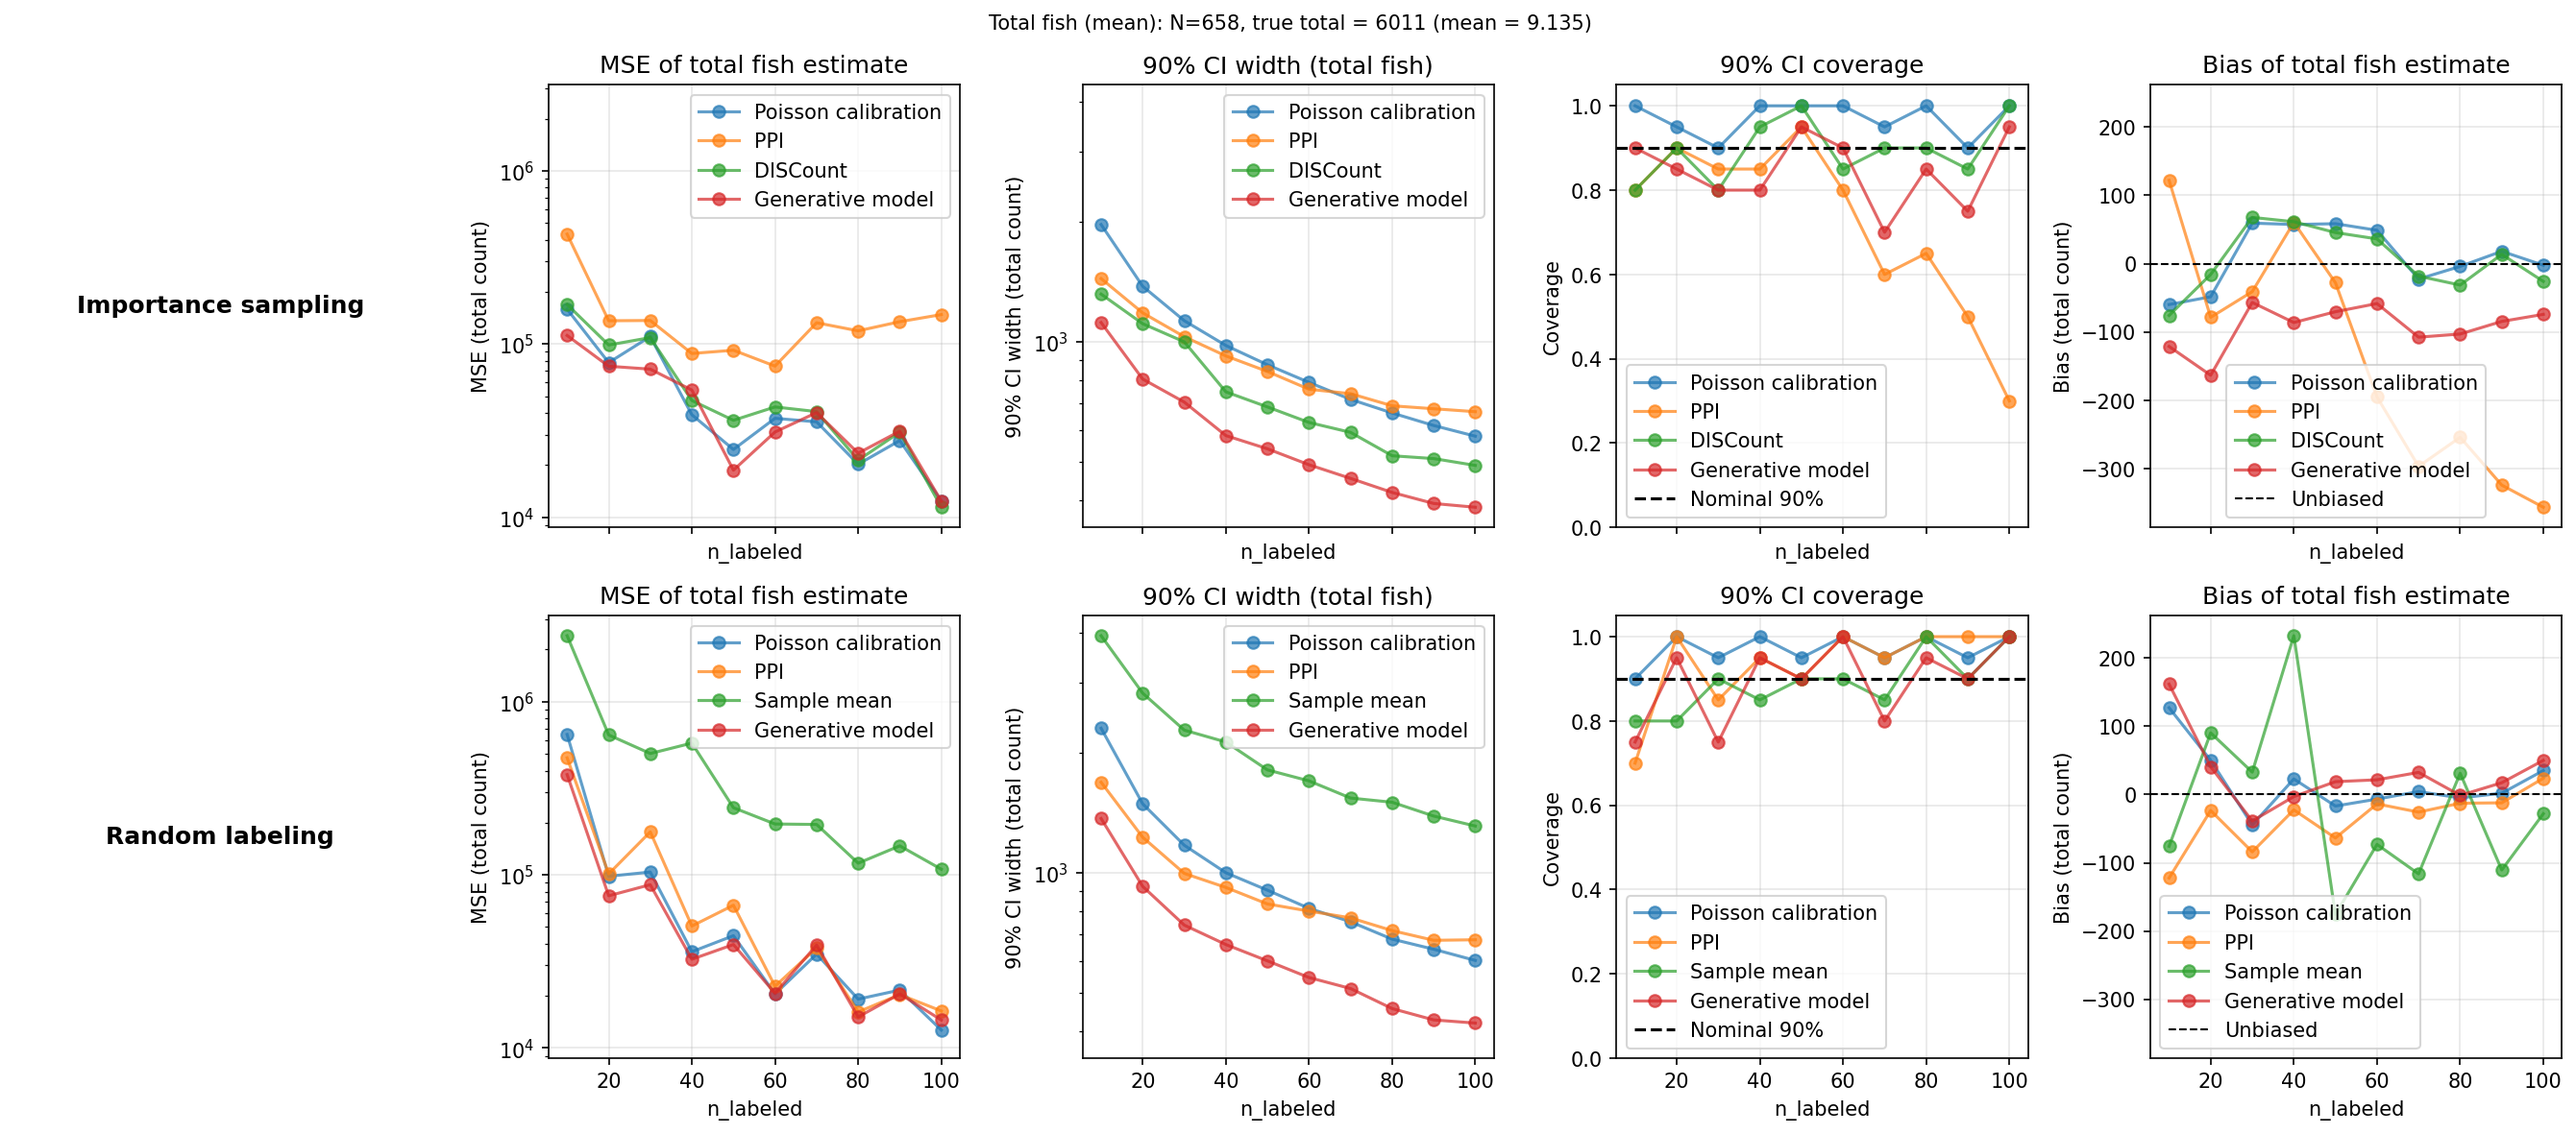
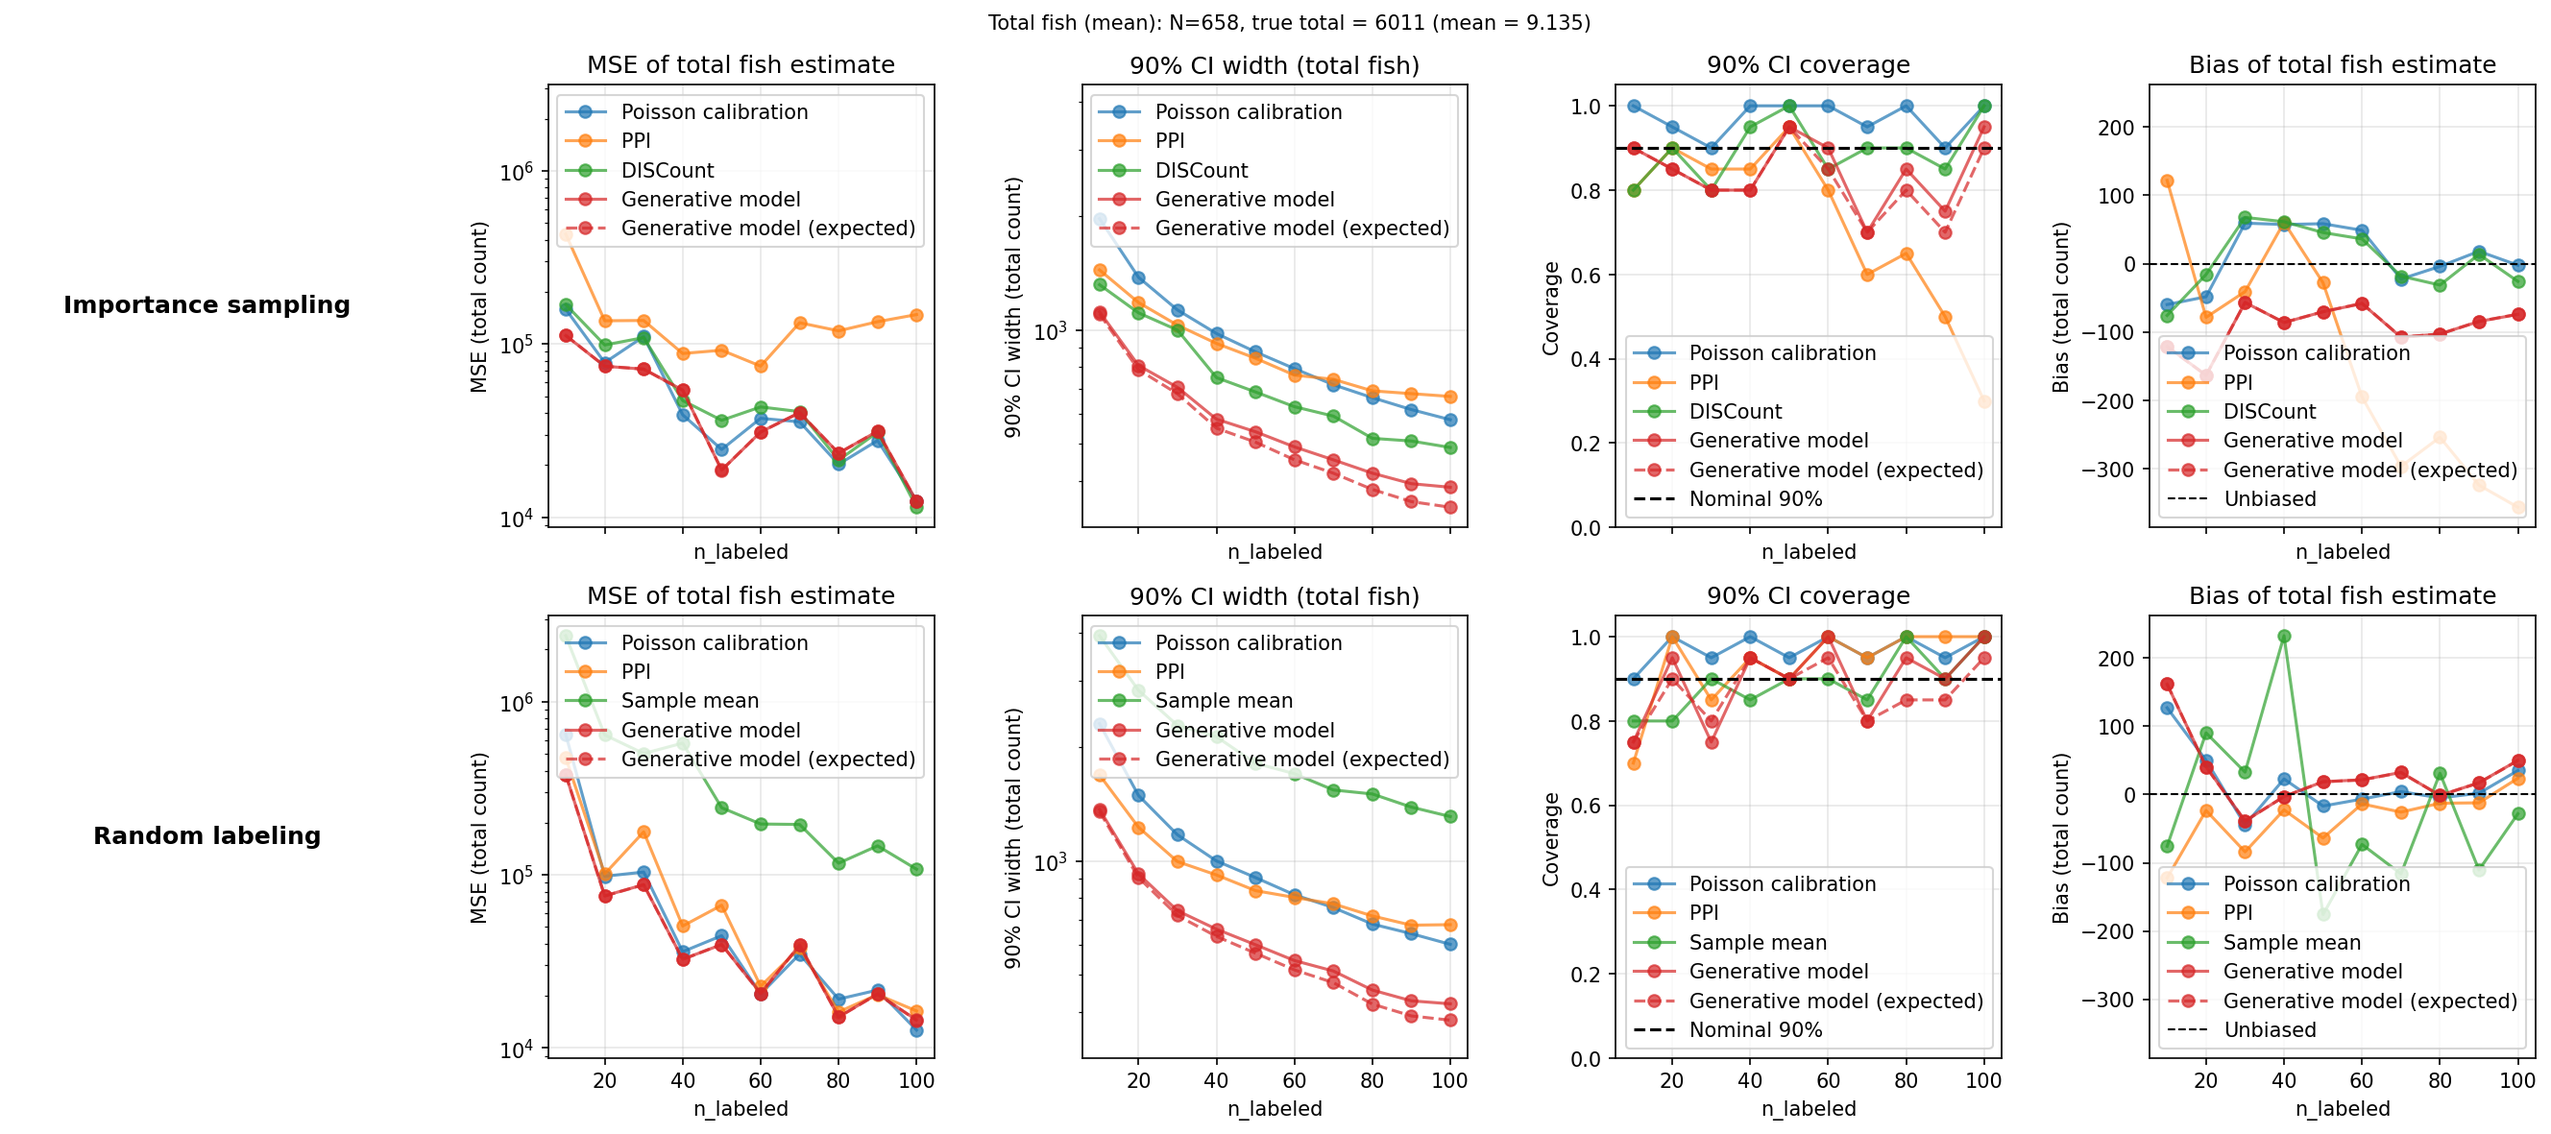
comments to generative model

diff --git a/visualize_simulation.py b/visualize_simulation.py
@@ -34,10 +34,15 @@ def load_true_max(data_path: str):
     return int(f_arr.max())
 
 
-def compute_metrics(runs: list, method: str, true_mean: float):
-    pts = np.array([r[method]["point_estimate"] for r in runs])
-    lo = np.array([r[method]["ci_90_lo"] for r in runs])
-    hi = np.array([r[method]["ci_90_hi"] for r in runs])
+def compute_metrics(runs: list, method: str, true_mean: float, subkey: str | None = None):
+    """Compute metrics. If subkey is set, use r[method][subkey] instead of r[method]."""
+    if subkey:
+        data = [r[method][subkey] for r in runs]
+    else:
+        data = [r[method] for r in runs]
+    pts = np.array([d["point_estimate"] for d in data])
+    lo = np.array([d["ci_90_lo"] for d in data])
+    hi = np.array([d["ci_90_hi"] for d in data])
     mse = np.mean((pts - true_mean) ** 2)
     bias = np.mean(pts) - true_mean
     widths = hi - lo
@@ -116,6 +121,11 @@ def main():
     methods = [m for m in all_methods if m in sample_run]
     colors = [method_colors[m] for m in methods]
 
+    # Extra mean methods (nested data): (parent_method, subkey, label, linestyle)
+    extra_mean_methods = []
+    if "generative_model" in methods and "mean_positives_expected" in sample_run.get("generative_model", {}):
+        extra_mean_methods.append(("generative_model", "mean_positives_expected", "Generative model (expected)", "--"))
+
     x = np.array(n_labeled_levels)
     n_rows = len(strategies)
     methods_with_max = [m for m in methods if compute_max_metrics(by_labeling[strategies[0]][str(n_labeled_levels[0])], m, true_max) is not None]
@@ -132,6 +142,10 @@ def main():
         bias_by_n = {m: [] for m in methods}
         ci_width_by_n = {m: [] for m in methods}
         coverage_by_n = {m: [] for m in methods}
+        extra_mse = {em: [] for em in extra_mean_methods}
+        extra_bias = {em: [] for em in extra_mean_methods}
+        extra_ci_width = {em: [] for em in extra_mean_methods}
+        extra_coverage = {em: [] for em in extra_mean_methods}
 
         for n in n_labeled_levels:
             runs = by_n_labeled[str(n)]
@@ -141,6 +155,13 @@ def main():
                 bias_by_n[m].append(met["bias"] * N)
                 ci_width_by_n[m].append(met["mean_ci_width"] * N)
                 coverage_by_n[m].append(met["coverage"])
+            for parent, subkey, label, ls in extra_mean_methods:
+                met = compute_metrics(runs, parent, true_mean, subkey=subkey)
+                em = (parent, subkey, label, ls)
+                extra_mse[em].append(met["mse"] * (N ** 2))
+                extra_bias[em].append(met["bias"] * N)
+                extra_ci_width[em].append(met["mean_ci_width"] * N)
+                extra_coverage[em].append(met["coverage"])
 
         ax = axes_mean[row, 0]
         ax.set_axis_off()
@@ -150,6 +171,8 @@ def main():
         ax = axes_mean[row, 1]
         for m, lab, c in zip(methods, labels, colors):
             ax.plot(x, mse_by_n[m], "o-", label=lab, color=c, alpha=0.7)
+        for parent, subkey, label, ls in extra_mean_methods:
+            ax.plot(x, extra_mse[(parent, subkey, label, ls)], f"o{ls}", label=label, color=method_colors[parent], alpha=0.7)
         ax.set_xlabel("n_labeled")
         ax.set_ylabel("MSE (total count)")
         ax.set_title("MSE of total fish estimate")
@@ -160,6 +183,8 @@ def main():
         ax = axes_mean[row, 2]
         for m, lab, c in zip(methods, labels, colors):
             ax.plot(x, ci_width_by_n[m], "o-", label=lab, color=c, alpha=0.7)
+        for parent, subkey, label, ls in extra_mean_methods:
+            ax.plot(x, extra_ci_width[(parent, subkey, label, ls)], f"o{ls}", label=label, color=method_colors[parent], alpha=0.7)
         ax.set_xlabel("n_labeled")
         ax.set_ylabel("90% CI width (total count)")
         ax.set_title("90% CI width (total fish)")
@@ -170,6 +195,8 @@ def main():
         ax = axes_mean[row, 3]
         for m, lab, c in zip(methods, labels, colors):
             ax.plot(x, coverage_by_n[m], "o-", label=lab, color=c, alpha=0.7)
+        for parent, subkey, label, ls in extra_mean_methods:
+            ax.plot(x, extra_coverage[(parent, subkey, label, ls)], f"o{ls}", label=label, color=method_colors[parent], alpha=0.7)
         ax.axhline(0.9, color="black", ls="--", lw=1.5, label="Nominal 90%")
         ax.set_xlabel("n_labeled")
         ax.set_ylabel("Coverage")
@@ -181,6 +208,8 @@ def main():
         ax = axes_mean[row, 4]
         for m, lab, c in zip(methods, labels, colors):
             ax.plot(x, bias_by_n[m], "o-", label=lab, color=c, alpha=0.7)
+        for parent, subkey, label, ls in extra_mean_methods:
+            ax.plot(x, extra_bias[(parent, subkey, label, ls)], f"o{ls}", label=label, color=method_colors[parent], alpha=0.7)
         ax.axhline(0, color="black", ls="--", lw=1, label="Unbiased")
         ax.set_xlabel("n_labeled")
         ax.set_ylabel("Bias (total count)")
